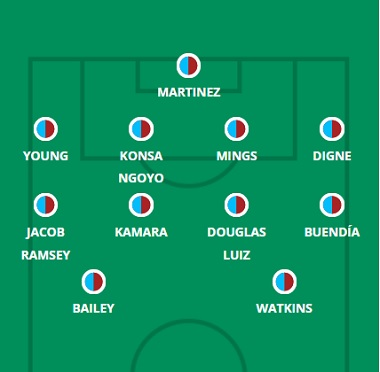
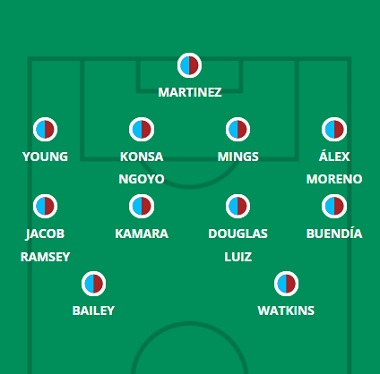
5-20

diff --git a/brentford.html b/brentford.html
@@ -63,15 +63,15 @@
     <hgroup>
         <h1> Provável Escalação</h1>
         <h2 class="direita"> por FabioVascão </h2>
-        <h3 class="direita"> Atualizado em 13/Janeiro/2023 </h3>
+        <h3 class="direita"> Atualizado em 20/Janeiro/2023 </h3>
     </hgroup>
 
     <div class="selecao"><p><b><img src="images/logos/brentford.png" width="100rem" height="100rem"/> Brentford</b></p></div>
        
     <div class="escalacao">
         <div class="topo">
-            <h2 class="titulo">Ultimas Notícias</h2> <h4><p> Pontus Jansson (coxa), Shandon Baptiste (músculo), Frank Onyeka (coxa) e Aaron Hickey (condição física) permaneceram afastados, mas Ivan Toney (músculo) está de volta disponível e, nas palavras de seu técnico, será titular neste fim de semana. Thomas Frank pode estar em um dilema em relação à formação inicial, já que a implantação do 3-5-2 que ele normalmente usa contra os seis times grandes fez com que os Bees saíssem invictos de uma sequência de quatro partidas muito complicada. Mas a visita ao Bournemouth, sem um gol no campeonato desde novembro, sem dúvida tentará o técnico do Brentford a revisitar um 4-3-3 mais ofensivo, talvez eliminando um zagueiro excedente na forma de Zanka e substituindo-o por um terceiro atacante. ; Yoane Wissa, Keane Lewis-Potter, Mikkel Damsgaard, Sergi Canos e o novo garoto Kevin Schade estarão competindo por uma vaga ao lado de Toney e Bryan Mbeumo se isso acontecer. O artilheiro da rodada 18, Josh Da Silva, também pode substituir Vitaly Janelt se Frank optar por uma abordagem mais ofensiva e Kristoffer Ajer for uma alternativa a Mads Roerslev como lateral-direito, mas Mbeumo, Toney, Christian Norgaard, Mathias Jensen, Rico Henry, Ben Mee e Ethan Pinnock parecem ter certeza de começar qualquer que seja a configuração.</p></h4><br>
-            <h4><strong>Dúvidas:</strong> Baptiste, Hickey, Onyenka e Jansson. </h4>
+            <h2 class="titulo">Ultimas Notícias</h2> <h4><p> Thomas Frank espera que Rico Henry treine na sexta-feira depois que o zagueiro perdeu a vitória sobre o Bournemouth com um pequeno problema na panturrilha, então o zagueiro deve fazer um retorno muito rápido ao time. Pontus Jansson (coxa) e Frank Onyeka (coxa) permanecem de fora, enquanto Shandon Baptiste (músculo) e Aaron Hickey (tornozelo) ainda podem não ser considerados, apesar de ganharem minutos de condicionamento físico em um amistoso no meio da semana. Thomas Frank pode estar em um dilema em relação à formação inicial, já que a implantação do 3-5-2 que ele normalmente usa contra os seis grandes times também foi usada para o sucesso no West Ham na Rodada 18. Frank voltou para um 4-3-3 para a vitória em casa sobre o Bournemouth no último sábado, mas com o Leeds uma força de ataque bastante potente, o chefe do Brentford pode optar por introduzir um terceiro zagueiro, transferindo Kristoffer Ajer da lateral-direita ou chamando Zanka. Mads Roerslev também deve dar uma olhada se virmos o sistema lateral de volta à operação, com Yoane Wissa tantas vezes o peso-chave quando Frank sacrifica um de seus três atacantes para fins táticos. Vitaly Janelt e Josh Dasilva lutarão por uma vaga ao lado de Mathias Jensen e Christian Norgaard, embora os serviços de Janelt possam ser necessários como lateral-esquerdo/lateral se Henry não conseguir.</p></h4><br>
+            <h4><strong>Dúvidas:</strong> Baptiste, Hickey, Henry, Onyenka e Jansson. </h4>
         </div>
         <aside>
             <figure>

diff --git a/aston.html b/aston.html
@@ -63,15 +63,15 @@
     <hgroup>
         <h1> Provável Escalação</h1>
         <h2 class="direita"> por FabioVascão </h2>
-        <h3 class="direita"> Atualizado em 13/Janeiro/2023 </h3>
+        <h3 class="direita"> Atualizado em 20/Janeiro/2023 </h3>
     </hgroup>
 
     <div class="selecao"><p><b><img src="images/logos/aston-villa.png" width="100rem" height="100rem"/> Aston Villa</b></p></div>
        
     <div class="escalacao">
         <div class="topo">
-            <h2 class="titulo">Ultimas Notícias</h2> <h4><p> Diego Carlos (Aquiles) ficará de fora por mais um ou dois meses, enquanto este jogo também chegará muito cedo para John McGinn (tendão da coxa) e Ludwig Augustinsson (tornozelo). Matty Cash é uma nova dúvida com uma lesão na virilha contraída no jogo contra Stevenage, enquanto Leander Dendoncker está suspenso após seu cartão vermelho naquela partida. Quanto ao novo lateral-esquerdo Alex Moreno, o técnico Unai Emery disse que "não tinha certeza" se o espanhol teria autorização para jogar após sua transferência no meio da semana, mas tendo treinado apenas com seus novos companheiros um dia antes do jogo contra o Leeds, Lucas Digne pode ser uma suspensão da execução na lateral-esquerda independentemente. A ausência/possível ausência de McGinn e Cash priva Emery de duas opções que atuaram no flanco direito desde a retomada, mas agora ele tem as costas Philippe Coutinho e Jacob Ramsey, o último dos quais começou nessa posição na primeira partida de Emery em ataque contra o Manchester United. Danny Ings continua a jogar supersub, marcando novamente contra o Wolves, mas apesar da falta de confiança de Leon Bailey na frente do gol (ele foi às lágrimas após uma falha tardia na Rodada 19), Emery parece valorizar os outros atributos do jamaicano no ataque e tem persistiu com o lateral. O resto do time parece bastante resolvido no momento, com o excesso de lesões e saídas iminentes (Morgan Sanson parece estar se juntando a Augustinsson para sair pela porta), deixando Emery com pouco mais de reserva.</p></h4><br>
-            <h4><strong>Dúvidas:</strong> McGinn, Diego Carlos, Augustinsson, Cash e Dendonker.</h4>
+            <h2 class="titulo">Ultimas Notícias</h2> <h4><p> Lucas Digne (ombro) juntou-se a Diego Carlos (Aquiles) e John McGinn (coxa) nas laterais, mas Ludwig Augustinsson (tornozelo), Matty Cash (virilha) e Ollie Watkins (tornozelo) devem estar disponíveis para a viagem a Southampton. Alex Moreno parece pronto para sua estreia completa na ausência de Digne, mas a equipe do Villa deve permanecer inalterada para o confronto em St Mary's, com a saída de Danny Ings, a esperada disponibilidade de Watkins e a excelente exibição de Leon Bailey na última sexta-feira consolidando o atual parceria no topo. Philippe Coutinho ainda espera seu primeiro início na liga sob o comando de Unai Emery, enquanto a disponibilidade de Cash pode ser discutível, já que ele foi mantido fora do time como lateral-direito por Ashley Young antes de sua lesão. Leander Dendoncker está novamente disponível após suspensão, mas o emprestado Jan Bednarek fica de fora por inelegibilidade.</p></h4><br>
+            <h4><strong>Dúvidas:</strong> Bednarek, Digne, McGinn, Diego Carlos, Cash e Watkins.</h4>
         </div>
         <aside>
             <figure>

diff --git a/brighton.html b/brighton.html
@@ -63,15 +63,15 @@
     <hgroup>
         <h1> Provável Escalação</h1>
         <h2 class="direita"> por FabioVascão </h2>
-        <h3 class="direita"> Atualizado em 13/Janeiro/2023 </h3>
+        <h3 class="direita"> Atualizado em 20/Janeiro/2023 </h3>
     </hgroup>
 
     <div class="selecao"><p><b><img src="images/logos/brighton.png" width="100rem" height="100rem"/> Brighton</b></p></div>
        
     <div class="escalacao">
         <div class="topo">
-            <h2 class="titulo">Ultimas Notícias</h2> <h4><p> Jakub Moder (joelho) continua na lista de lesionados, enquanto Leandro Trossard não será considerado para a seleção em meio a relações azedas entre jogador e técnico. O Brighton está em boa forma, com três vitórias impressionantes fora de casa na liga e na copa, pontuadas por uma derrota divertida para o Arsenal em dezembro. Não esperamos muitas mudanças para este confronto contra o Liverpool, então, mas Adam Webster e Danny Welbeck se recuperaram de lesões desde a 19ª rodada e podem exercer alguma pressão sobre os adjuntos impressionantes Levi Colwill e Evan Ferguson no meio-campo e centro. -forward respectivamente. Alexis Mac Allister também pode voltar à equação inicial do XI depois de ser gradualmente recuado após sua corrida para a final da Copa do Mundo, e recentemente vimos Roberto De Zerbi usá-lo em um papel mais avançado do que testemunhamos antes do Qatar. 2022. Uma posição de número 10 ocupada fugazmente por Jeremy Sarmiento e Adam Lallana certamente está em jogo, especialmente com Trossard não aparecendo. O resto da equipe parece relativamente estável, exceto talvez como lateral-direito, onde Tariq Lamptey começou na Gameweek 18 e na FA Cup no fim de semana passado.</p></h4><br>
-            <h4><strong>Dúvidas:</strong> Moder, Mwepu e Trossard. </h4>
+            <h2 class="titulo">Ultimas Notícias</h2> <h4><p> Levi Colwill (músculo) parece prestes a perder a viagem para Leicester City, mas, além dele e da vítima de lesão de longa data Jakub Moder (joelho), os Seagulls não têm nenhuma preocupação séria para o fim de semana. Roberto De Zerbi confirmou na coletiva de imprensa de sexta-feira que Adam Webster ou Jan Paul van Hecke substituirão Colwill no meio-campo e, embora van Hecke tenha se mostrado muito promissor em sua carreira embrionária no Seagulls, sua falta de experiência na Premier League pode apenas ver Webster recebe o aceno. Não que De Zerbi tenha tido medo de estrear no sangue até agora em seu tempo no Amex, com Evan Ferguson e Kaoru Mitoma se destacando nas últimas semanas e novamente no último fim de semana contra o Liverpool. A natureza abrangente dessa vitória sobre a equipe de Jurgen Klopp sem dúvida tentará o técnico do Brighton a manter as mudanças reduzidas a uma alteração forçada na defesa, embora Danny Welbeck esteja agora em forma novamente e pressionando Ferguson no topo. Joel Veltman e Tariq Lamptey são opções mais naturais na lateral-direita, mas De Zerbi mais uma vez colocou Pascal Gross sobre eles contra o Liverpool, com Adam Lallana se beneficiando do meio-campo vago mais à frente.</p></h4><br>
+            <h4><strong>Dúvidas:</strong> Moder, Mwepu e Colwill. </h4>
         </div>
         <aside>
             <figure>

diff --git a/leicester.html b/leicester.html
@@ -63,15 +63,15 @@
     <hgroup>
         <h1> Provável Escalação</h1>
         <h2 class="direita"> por FabioVascão </h2>
-        <h3 class="direita"> Atualizado em 13/Janeiro/2023 </h3>
+        <h3 class="direita"> Atualizado em 20/Janeiro/2023 </h3>
     </hgroup>
 
     <div class="selecao"><p><b><img src="images/logos/leicester.png" width="100rem" height="100rem"/> Leicester</b></p></div>
        
     <div class="escalacao">
         <div class="topo">
-            <h2 class="titulo">Ultimas Notícias</h2> <h4><p> James Maddison (joelho) e Kiernan Dewsbury-Hall (glúteo) permanecem afastados ao lado de Boubakary Soumare (coxa), James Justin (Aquiles), Ryan Bertrand (joelho), Ricardo Pereira (Aquiles) e Jonny Evans (panturrilha), enquanto Ayoze Perez ( knock) terá que ser avaliado depois que ele se machucou na derrota da copa no meio da semana para o Newcastle United. Dennis Praet (costela/quadril/abdômen) voltou a treinar, pelo menos, e pode voltar. A lista de sete lesionados e as dúvidas sobre Praet/Perez deixam um sitiado Brendan Rodgers com pouca força em profundidade, com quem estiver mais apto entre Perez e Praet potencialmente apenas se juntando aos mesmos outros 10 titulares que foram derrotados em Newcastle. Nampalys Mendy é uma alternativa no meio do parque e Caglar Soyuncu dá a Rodgers a opção de jogar três na defesa, enquanto pelo menos o chefe do Leicester tem um dilema de seleção bem-vindo com Jamie Vardy, Patson Daka e o menos usado Kelechi Iheanacho todas as possibilidades. Os novatos Lewis Brunt, Kasey McAteer e Sammy Braybrooke estavam ocupando o banco na EFL Cup, tal é a luta do Leicester por pessoal no momento.</p></h4><br>
-            <h4><strong>Dúvidas:</strong> Ricardo Pereira, Bertrand, Dewsbury-Hall, Evans, Justin, Maddison, Soumaré, Pérez e Praet.</h4>
+            <h2 class="titulo">Ultimas Notícias</h2> <h4><p> Boubakary Soumare (coxa), James Justin (Aquiles), Ryan Bertrand (joelho), Ricardo Pereira (Aquiles) e Jonny Evans (panturrilha) permanecem de fora, enquanto o jogo pode vir muito cedo para Ayoze Perez (músculo). James Maddison (joelho) e Kiernan Dewsbury-Hall (glúteo) estão de volta à disputa, no entanto, com Maddison provavelmente mais propenso a ver a ação fora do banco depois que seu gerente disse que os Foxes precisavam "gerenciar o tempo de jogo conscientemente porque tem sido muito tempo desde que ele realmente jogou". Brendan Rodgers também confirmou que Dennis Praet estava apto após seu retorno como reserva no fim de semana passado, então o belga estará pressionando para começar no flanco direito às custas de Marc Albrighton ou no meio-campo no lugar de Nampalys Mendy se Dewsbury-Hall for considerado inadequado para começar. A não atuação de Jamie Vardy em Forest no fim de semana passado pode levar Patson Daka de volta, com Rodgers efetivamente admitindo em sua entrevista pré-jogo que os poderes do atacante veterano estavam diminuindo.</p></h4><br>
+            <h4><strong>Dúvidas:</strong> Ricardo Pereira, Bertrand, Dewsbury-Hall, Evans, Justin, Maddison, Soumaré e Pérez.</h4>
         </div>
         <aside>
             <figure>

diff --git a/newcastle.html b/newcastle.html
@@ -63,15 +63,15 @@
     <hgroup>
         <h1> Provável Escalação</h1>
         <h2 class="direita"> por FabioVascão </h2>
-        <h3 class="direita"> Atualizado em 13/Janeiro/2023 </h3>
+        <h3 class="direita"> Atualizado em 20/Janeiro/2023 </h3>
     </hgroup>
 
     <div class="selecao"><p><b><img src="images/logos/newcastle-united.png" width="100rem" height="100rem"/> Newcastle</b></p></div>
        
     <div class="escalacao">
         <div class="topo">
-            <h2 class="titulo">Ultimas Notícias</h2> <h4><p> Matt Targett (calcanhar), Jonjo Shelvey (panturrilha) e Emil Krafth (joelho) são os únicos jogadores na lista de lesionados do Newcastle antes da visita ao Fulham, com Alexander Isak voltando de lesão nas duas partidas da copa doméstica na última semana. Dada a longa ausência do sueco, no entanto, parece que só o veremos aparecer como substituto no curto prazo, com Eddie Howe prometendo "ter muito cuidado com ele" depois de meses afastado. Com toda a probabilidade, veremos a mesma escalação de aparência familiar que eliminou confortavelmente o Leicester City no meio da semana, e é um lado que permaneceu inalterado nas últimas sete semanas de jogos, exceto pelas ausências forçadas de Joelinton e Callum Wilson. Chris Wood, Jamaal Lascelles, Jacob Murphy e Allan Saint-Maximin estarão entre os que jogarão em segundo lugar no banco, a menos que alguma lesão tardia aconteça aos regulares.</p></h4><br>
-            <h4><strong>Dúvidas:</strong> Krafth, Shelvey e Targett.</h4>
+            <h2 class="titulo">Ultimas Notícias</h2> <h4><p> Eddie Howe não deu um cronograma sobre a recuperação de Bruno Guimarães (tornozelo), mas relatos da mídia sugerem que o meio-campista brasileiro ficará fora por semanas, então, apesar de uma varredura "positiva" mostrando nenhum dano grave, uma aparição em Selhurst Park parece um ordem de altura. A ausência de outros meio-campistas centrais em forma provavelmente fará com que Joelinton volte para a casa das máquinas, deixando um espaço para Allan Saint-Maximin, Jacob Murphy ou mesmo Alexander Isak no flanco esquerdo. Foi Saint-Maximin quem substituiu Guimarães ao intervalo da vitória sobre o Fulham, com a contribuição "muito boa" do francês a ser elogiada por Howe, mas o treinador do Newcastle voltou a discutir a versatilidade de Isak nas posições de ataque na prensagem de sexta-feira. O XI dos Magpies permaneceu praticamente inalterado nas últimas oito semanas de jogos, exceto uma ou duas ausências forçadas, então a única alteração necessária para cobrir Guimarães provavelmente será o único ajuste de escalação em Selhurst Park. Matt Targett (calcanhar), Jonjo Shelvey (panturrilha) e Emil Krafth (joelho) permanecem de fora, com Howe relatando apenas pequenas "batidas" na vitória sobre o Fulham.</p></h4><br>
+            <h4><strong>Dúvidas:</strong> Krafth, Shelvey, Targett e Bruno Guimarães.</h4>
         </div>
         <aside>
             <figure>
